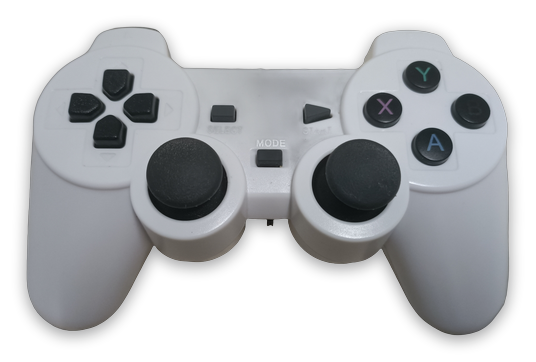
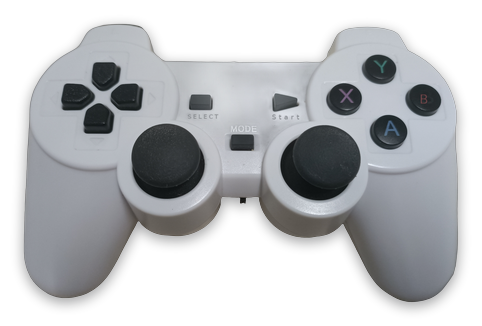
docs/controller-guide: 实物图修图 + 方位用词与全文统一
图片(docs/img/pad-xbox-style.png,450px 宽 -> 482x326 含投影,134KB):
- 中央平板提亮:原照片该处受拍摄光线影响偏灰,视觉上像脏污。用羽化遮罩局部提亮,
  不做硬边处理(先前试过按方框加深,会留下明显的矩形接缝,已弃用)。
- SELECT / Start 重绘:原字为白底白字的模印,又已磨损,几乎不可读。做法是先用羽化
  遮罩柔化旧字,再于同位置逐字排版画上清晰字(拉到与原字相同的宽度)。MODE 本来就
  看得清,保持原样不动。
- 补画 B:该键的彩色油墨已完全磨光(实测字痕色偏为 0,而 Y=绿 / X=紫 / A=蓝 都还在),
  只剩模糊痕迹,无法靠强化既有字形救回,只能重画。取这组配色缺的红,大小与透明度
  对齐另外三颗的磨损感;位置用像素分析算出键面重心(1209,246)使其落在键帽顶面中央。

用词:新增段落原本写「A 在下 / B 在右」,与全文既有的「南(下)/东(右)/西/北」不一致
(第 51-52、95、107 行等都用方位)。改为一律用方位,并补一句说明为什么用方位——
「A 在哪」随手柄印刷而变,方位不会变。这正是本文三层模型的基础。

Changed region(s): [[0.4046, 0.184, 0.6224, 0.3681], [0.8714, 0.2761, 0.9025, 0.3067]]

diff --git a/docs/controller-guide.md b/docs/controller-guide.md
@@ -6,13 +6,15 @@
 
 ![指定手柄：外形是 PS 手柄、印刷是 Xbox 式、没有 Guide 键](img/pad-xbox-style.png)
 
-它的特征很典型——**外形是 PS 手柄，按键印刷却是 Xbox 式**（A 在下、B 在右、X 在左、Y 在上），而且**只有 SELECT / START / MODE，没有 Guide（中央）键**。市面上不少手柄都是这个样子。
+它的特征很典型——**外形是 PS 手柄，按键印刷却是 Xbox 式**（**A 在南、B 在东、X 在西、Y 在北**），而且**只有 SELECT / START / MODE，没有 Guide（中央）键**。市面上不少手柄都是这个样子。
+
+> 本文一律用**南（下）/ 东（右）/ 西（左）/ 北（上）**描述按键位置——因为「A 在哪」会随手柄印刷而变，但**方位不会变**。
 
 出厂为它配好的默认值：
 
 | 项目 | 默认 |
 |---|---|
-| 界面确认键 | **A**（下方那颗） |
+| 界面确认键 | **A**（在南，下方那颗） |
 | 热键 | **SELECT** |
 | 热键组合 | 见下方[第二层](#第二层ra--独立模拟器-热键--基于按键印刷)的五组 |
 
@@ -22,9 +24,9 @@
 
 | 情况 | 表现 |
 |---|---|
-| **内置名册里没有的手柄** | 会自动套用 **Xbox 式**映射（A 在下）、热键取 **SELECT**，多数情况直接可用 |
+| **内置名册里没有的手柄** | 会自动套用 **Xbox 式**映射（**A 在南**）、热键取 **SELECT**，多数情况直接可用 |
 | **内置名册里的其他手柄** | 键位可用；但热键**未逐一适配**，若遇到退不出模拟器之类的问题，跑一次设定精灵即可 |
-| **任天堂式手柄**（A 在右侧） | 默认值不合用，请跑一次设定精灵 |
+| **任天堂式手柄**（**A 在东**） | 默认值不合用，请跑一次设定精灵 |
 
 > 设定精灵随时可跑，它会**完整覆盖**上面的默认值（界面、热键、RetroArch 三处同步），而且**不会破坏出厂配置**——删掉自己那笔设定即可还原。
 
